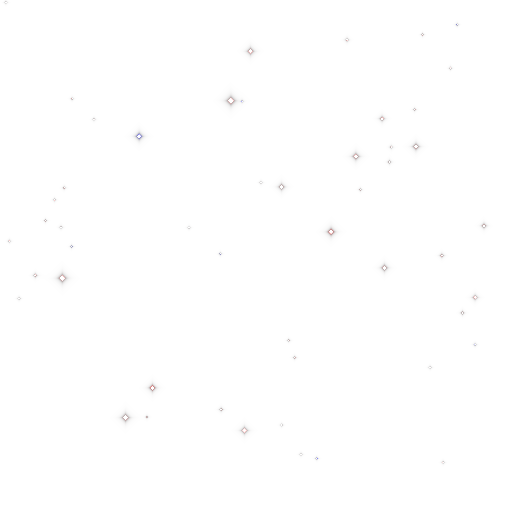
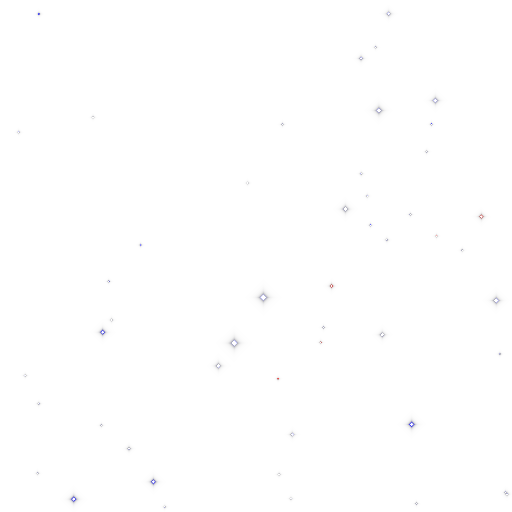
finished with nebulas and stars for now

diff --git a/scripts/game.js b/scripts/game.js
@@ -217,10 +217,8 @@ BSWG.game = new function(){
 
 BSWG.starfield = function(){
 
-    var imageCount = 64;
-    var imageSize = 384;
-    var images = [];
-    var dustCount = 32;
+    var dustCount = 16;
+    var dustImageSize = 1024;
     var dustImages = [];
     var starSizeO = [ 1, 8 ];
     var layers = 2;
@@ -236,41 +234,16 @@ BSWG.starfield = function(){
 
     Math.seedrandom(666);
 
-    for (var i=0; i<imageCount; i++) {
-        images.push(BSWG.render.proceduralImage(imageSize, imageSize, function(ctx, w, h){
-
-            ctx.clearRect(0, 0, w, h);
-
-            var img = starImg[Math.floor(Math.random() * starImg.length)];
-            ctx.globalAlpha = 0.4;
-            ctx.drawImage(img, 0, 0, img.width, img.height, 0, 0, w, h);
-
-            if (!(i%4))
-            {
-                var img = nebulaImg[Math.floor(Math.random() * nebulaImg.length)];
-                var sz = (Math.random()*0.5+0.5)*Math.min(w,h);
-                ctx.save();
-                ctx.translate(sz*0.5, sz*0.5);
-                ctx.rotate(Math.PI*2.0);
-                ctx.translate(-sz*0.5, -sz*0.5);
-                ctx.globalAlpha = 0.3;
-                ctx.drawImage(img, 0, 0, img.width, img.height, 0, 0, sz, sz);
-                ctx.restore();
-            }
-
-        }));
-    }
-
     for (var i=0; i<dustCount; i++) {
-        dustImages.push(BSWG.render.proceduralImage(imageSize, imageSize, function(ctx, w, h){
+        dustImages.push(BSWG.render.proceduralImage(dustImageSize, dustImageSize, function(ctx, w, h){
 
             ctx.clearRect(0, 0, w, h);
 
             ctx.globalAlpha = 0.5;
             ctx.fillStyle = '#bbb';
 
-            for (var k=0; k<125; k++) {
-                ctx.fillRect(Math.random()*w, Math.random()*h, 1, 1);
+            for (var k=0; k<185; k++) {
+                ctx.fillRect(Math.random()*w, Math.random()*h, 2, 2);
             }
 
         }));
@@ -283,19 +256,19 @@ BSWG.starfield = function(){
         for (var l=3; l>=1; l--) {
 
             var t = (l-1)/2;
-            cam.z = (oz*(1.0-t) + t*0.1) / Math.pow(l, 4.0);
-            ctx.globalAlpha = 1.0/Math.pow(Math.max(1, l-1), 2.0);
+            cam.z = (oz*(1.0-t) + t*0.1) / Math.pow(l, 5.0);
+            var alpha = 1.0/Math.pow(Math.max(1, l-1), 2.0);
 
-            var tsize = [25, 80, 120][l-1];
+            var tsize = [25, 150, 225][l-1];
 
             var p1 = cam.toWorld(viewport, new b2Vec2(0, 0));
             var p2 = cam.toWorld(viewport, new b2Vec2(viewport.w, viewport.h));
-            p1.x = (Math.floor(p1.x / tsize)-1) * tsize;
-            p1.y = (Math.floor(p1.y / tsize)-1) * tsize;
-            p2.x = (Math.floor(p2.x / tsize)+1) * tsize;
-            p2.y = (Math.floor(p2.y / tsize)+1) * tsize;
+            p1.x = (Math.floor(p1.x / tsize)-6) * tsize;
+            p1.y = (Math.floor(p1.y / tsize)-6) * tsize;
+            p2.x = (Math.floor(p2.x / tsize)+7) * tsize;
+            p2.y = (Math.floor(p2.y / tsize)+7) * tsize;
 
-            var img = l === 1 ? dustImages : images;
+            var img = l === 1 ? dustImages : starImg;
 
             var p = new b2Vec2(p1.x, p1.y);
             for (p.x = p1.x; p.x <= p2.x; p.x += tsize) {
@@ -304,7 +277,21 @@ BSWG.starfield = function(){
                     var ps = cam.toScreenList(viewport, [p, new b2Vec2(p.x+tsize, p.y+tsize)]);
                     var w = ps[1].x - ps[0].x,
                         h = ps[1].y - ps[0].y;
-                    var k = Math.floor(Math.random2d(x*13.5+97*l*l, y*7.431+55*l*l) * 100000);
+                    var k = Math.floor(Math.random2d(x*13.5+97*l*l, y*7.431+55*l*l) * 1000000);
+                    if (~~(k/37)%5 === 0 && l>1) {
+                        var r1 = (k%100)/100;
+                        var r2 = ((k+371)%1000)/1000;
+                        var nimg = nebulaImg[k % nebulaImg.length];
+                        var sz = (r1*3.0*(l-1)+0.5)*Math.min(w,h);
+                        ctx.save();
+                        ctx.translate(ps[0].x, ps[0].y);
+                        ctx.rotate(Math.PI*2.0*r2);
+                        ctx.translate(-sz*0.5, -sz*0.5);
+                        ctx.globalAlpha = 0.3 * alpha;
+                        ctx.drawImage(nimg, 0, 0, nimg.width, nimg.height, 0, 0, sz, sz);
+                        ctx.restore();
+                    }
+                    ctx.globalAlpha = 0.4 * alpha;
                     ctx.drawImage(img[k % img.length], ps[0].x, ps[0].y, w, h);
                 }
             }

diff --git a/generation/gen-starfield.js b/generation/gen-starfield.js
@@ -37,17 +37,17 @@ for (var i=0; i<dat.length; i+=4) {
         var v = stars[j].r / (0.001 + len*len*len);
         a += v;
         if (stars[j].type === 0) {
-            r += v; g += v * 0.75; b += v * 0.75;
+            r += v * 0.75; g += v * 0.75; b += v;
         }
         else if (stars[j].type === 1) {
             b += v;
-            g += v * 0.5;
-            r += v * 0.5;
+            g += v * 0.25;
+            r += v * 0.25;
         }
         else if (stars[j].type === 2) {
             r += v;
-            g += v * 0.5;
-            b += v * 0.5;
+            g += v * 0.25;
+            b += v * 0.25;
         }
     }
     dat[i]   = scaleClamp(r);

diff --git a/scripts/render.js b/scripts/render.js
@@ -190,15 +190,9 @@ BSWG.render = new function(){
         var canvas = document.createElement('canvas');
         canvas.width = w;
         canvas.height = h;
-        canvas.style.position = 'fixed';
-        canvas.style.top = '200%';
-        canvas.style.left = '0px';
         var ctx = canvas.getContext('2d');
-        document.body.appendChild(canvas);
 
         cbk(ctx, w, h);
-
-        document.body.removeChild(canvas);
 
         return canvas;
 

diff --git a/scripts/physics.js b/scripts/physics.js
@@ -6,7 +6,7 @@ BSWG.physics = new function(){
 	this.positionIterations = 60;
 	this.velocityIterations = 60;
 	this.world 				= null;
-	this.maxWeldForce       = 2000.0;
+	this.maxWeldForce       = 5000.0;
 	this.welds              = [];
 
 	this.init = function (){
